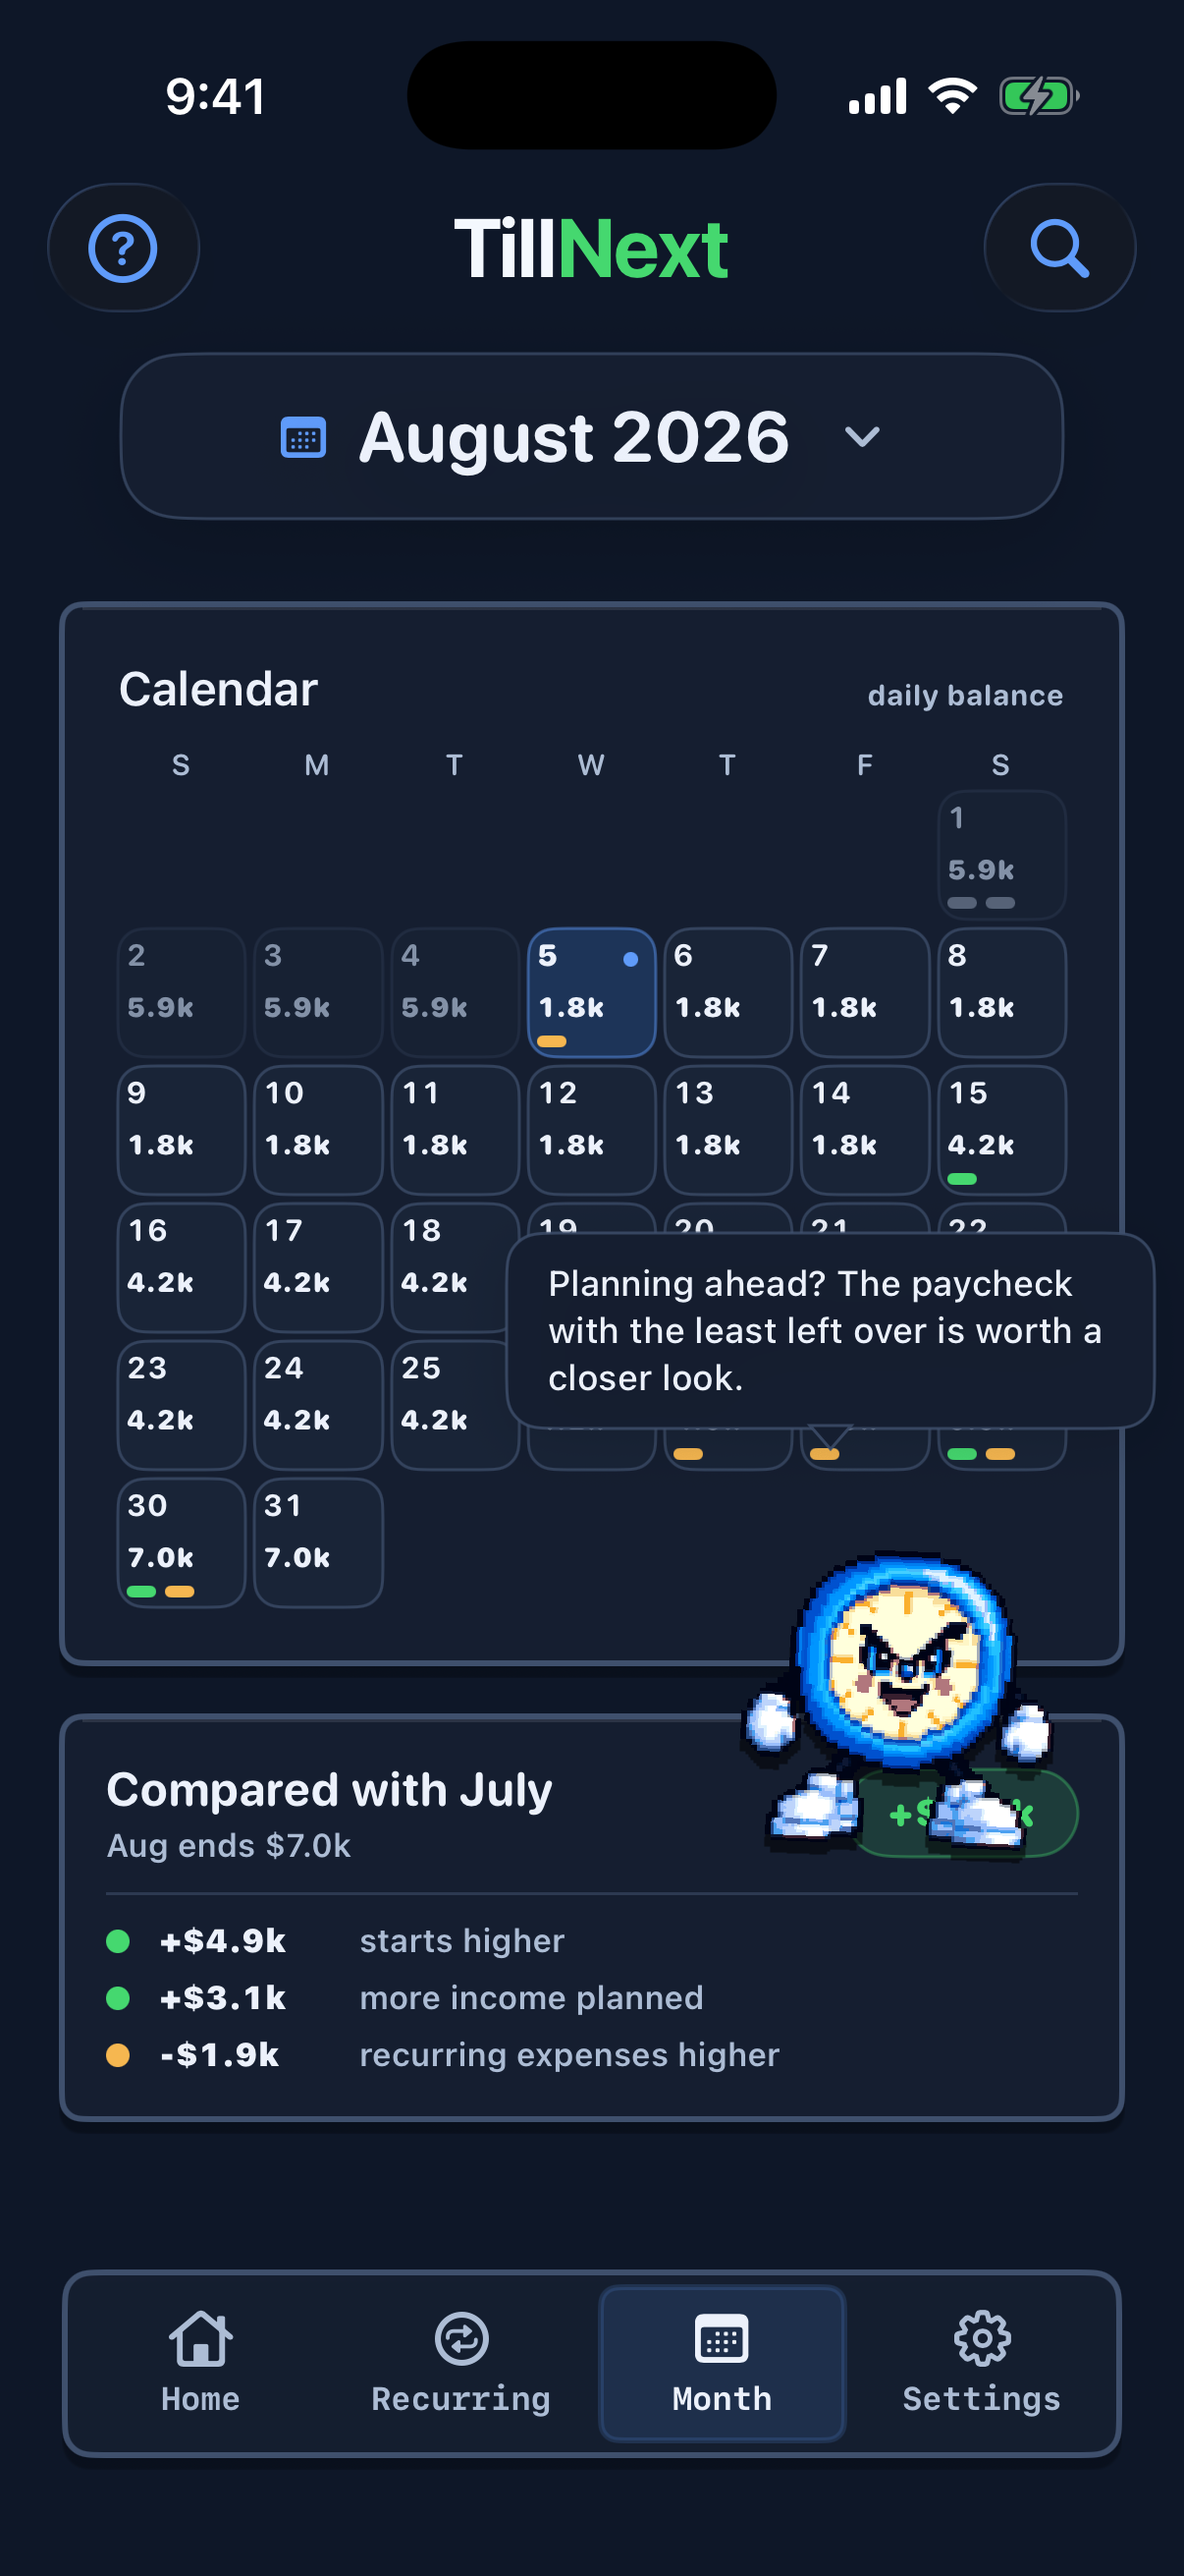
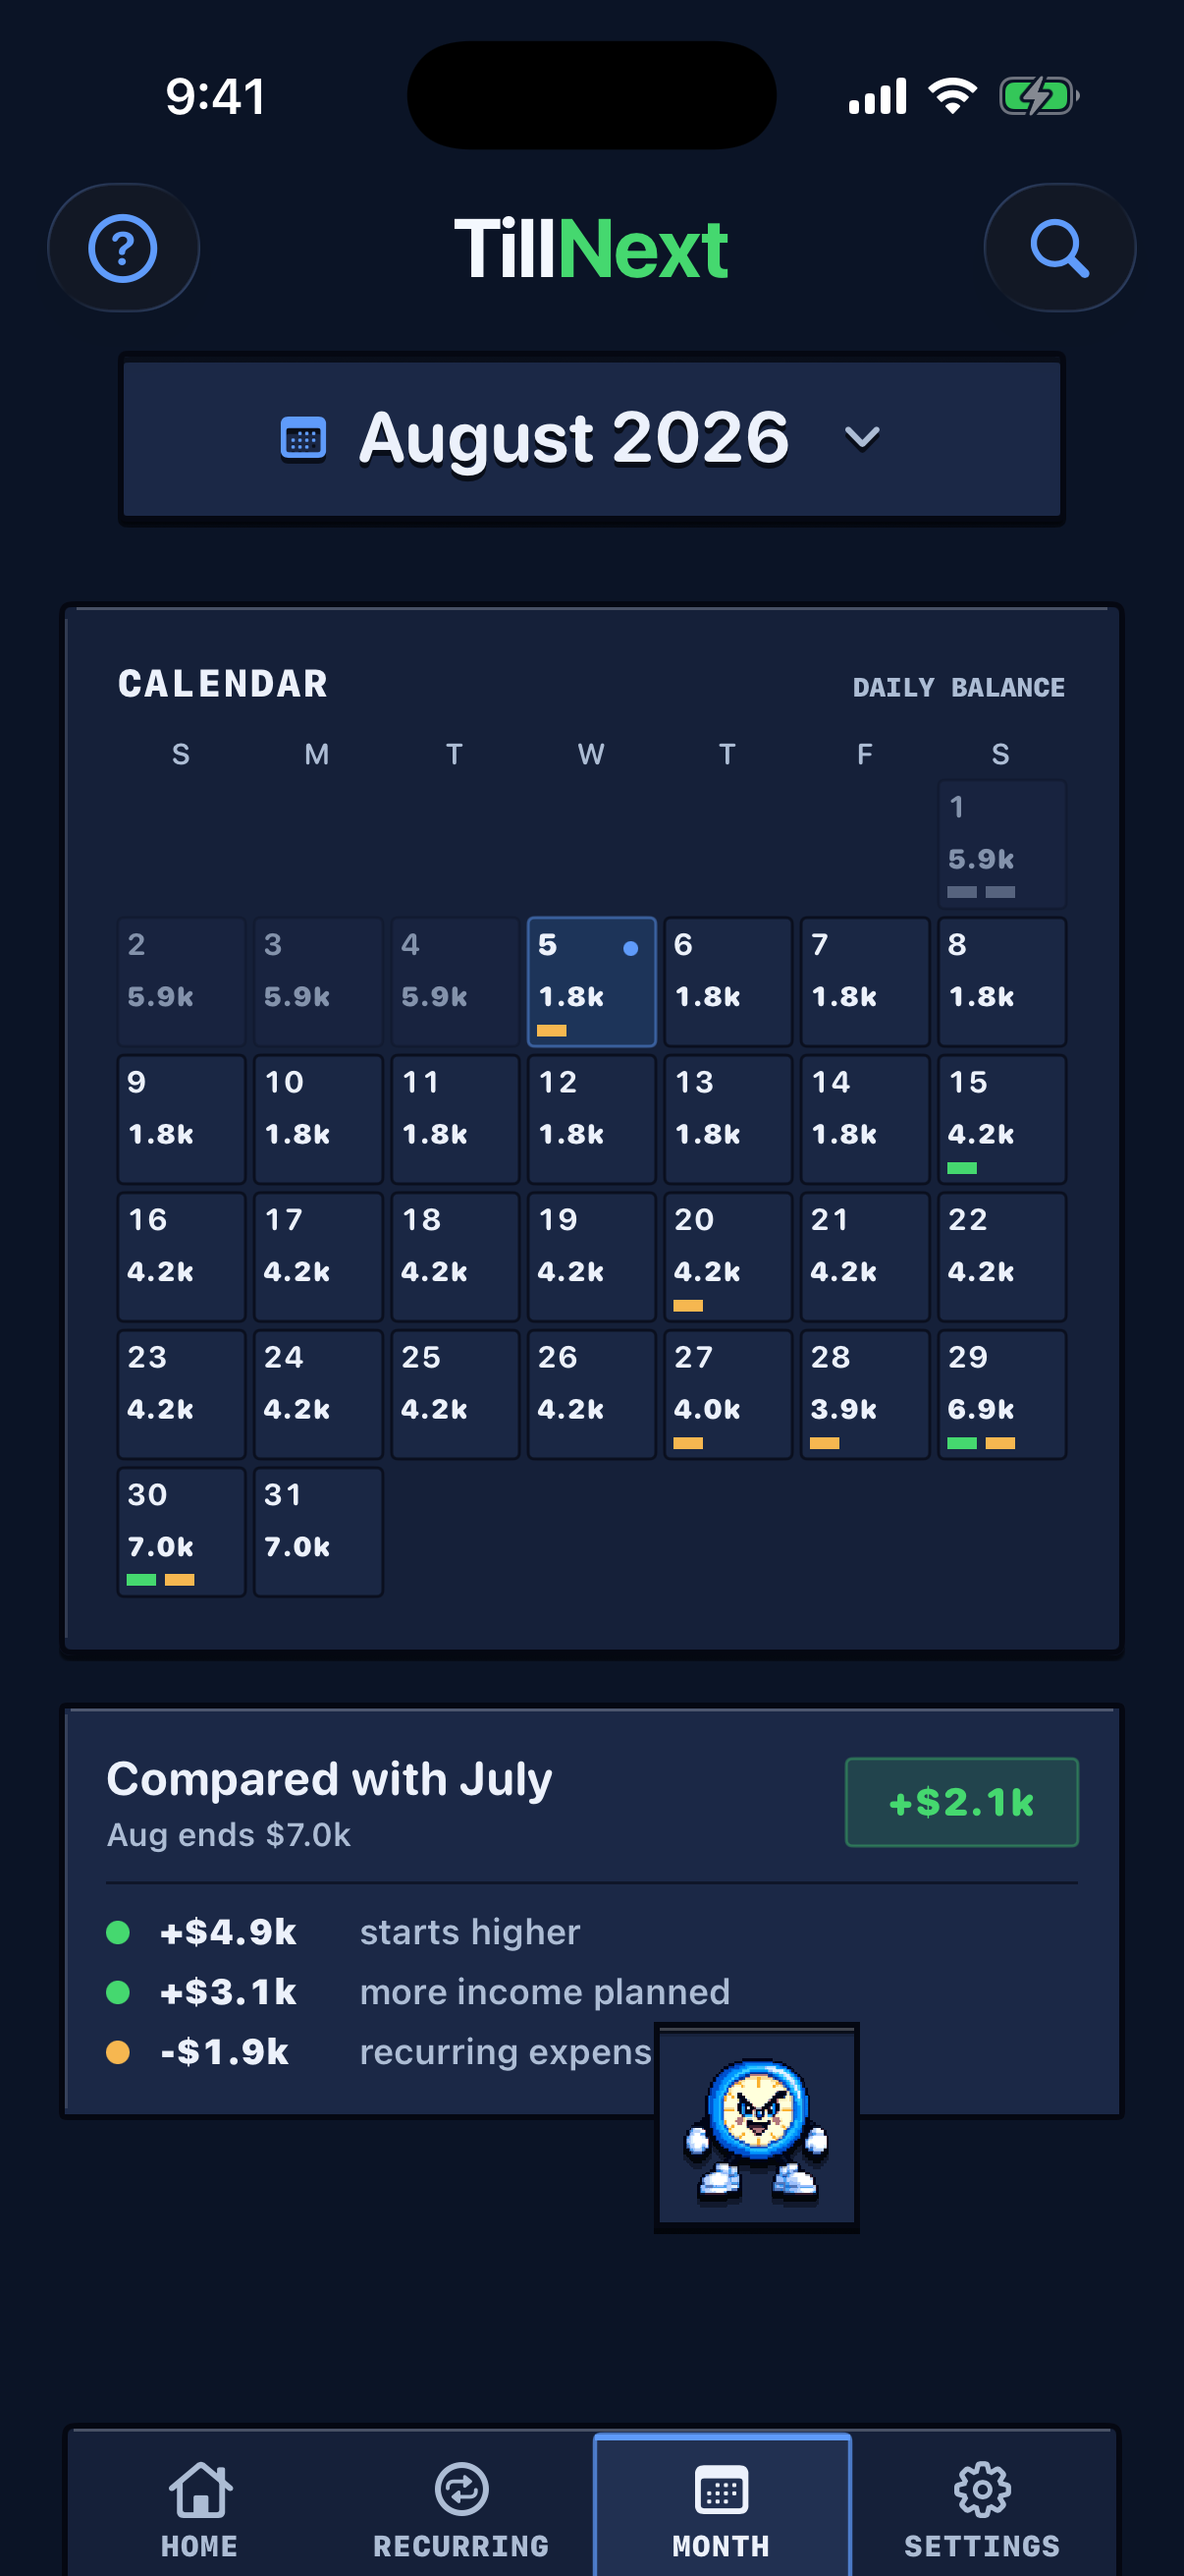
Refresh TillNext HUD help images

diff --git a/changelog/index.html b/changelog/index.html
@@ -25,8 +25,9 @@
       <p><strong>Updated:</strong> August 5, 2026</p>
       <h3>August 5, 2026</h3>
       <ul>
-        <li>Refreshed TillNext with sharper pixel-inspired panels and navigation that match the visual world of Tilly's Quest while keeping planning screens clear and readable.</li>
-        <li>Updated the optional Tilly companion to use Tilly's canonical Tilly's Quest pixel sprite.</li>
+        <li>Rebuilt TillNext around a deliberate Tilly's Quest HUD, with sharper day and night panels, compact stat displays, divider-based lists, and clearer visual priority for Safe cash.</li>
+        <li>Docked the optional Tilly guide above the tab rail, removed automatic chatter and dragging, and made one tap open a focused planning panel.</li>
+        <li>Updated the optional Tilly guide to use Tilly's canonical Tilly's Quest pixel sprite.</li>
         <li>Improved Safe cash so a saved bank check can roll forward across months as income and bills are marked done, reducing the need to re-enter Cash today.</li>
         <li>Replaced the daily stale-cash warning with a clearer note when Safe cash is being estimated from the last bank check.</li>
       </ul>
